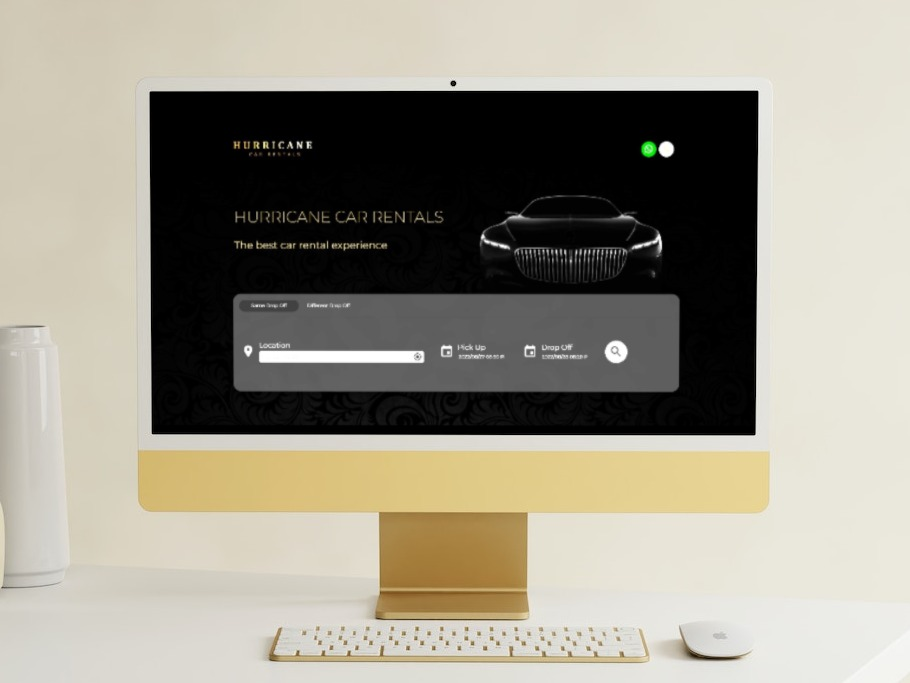
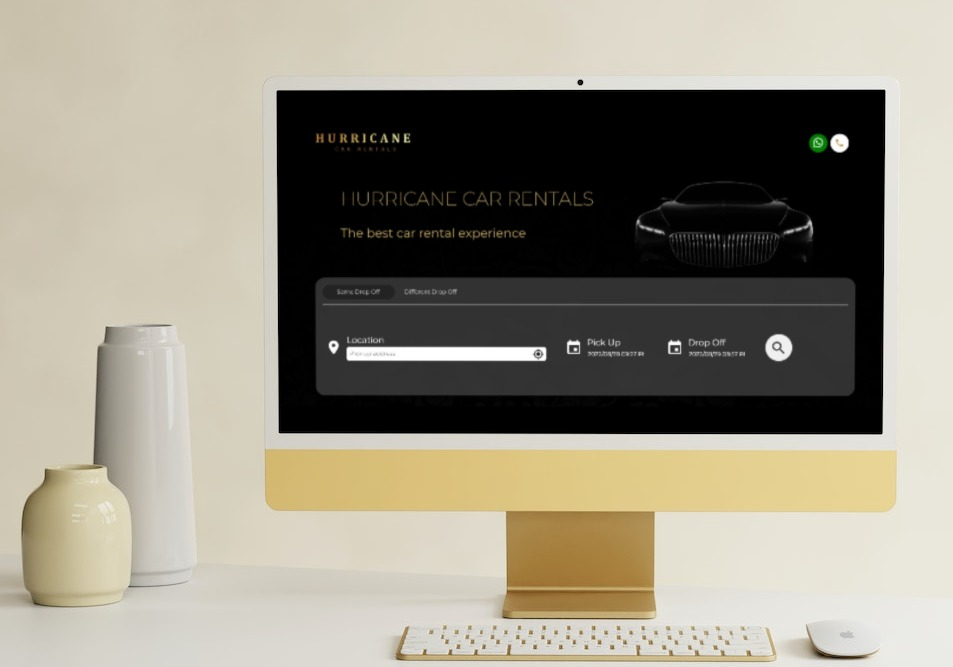
portfolio2

diff --git a/portfolio-details1.html b/portfolio-details1.html
@@ -1,0 +1,183 @@
+<!DOCTYPE html>
+<html lang="en">
+
+<head>
+  <meta charset="utf-8">
+  <meta content="width=device-width, initial-scale=1.0" name="viewport">
+
+  <title>Portfolio Details</title>
+  <meta content="" name="description">
+  <meta content="" name="keywords">
+
+  <!-- Favicons -->
+  <link href="assets/img/fav.jpg" rel="icon">
+  <link href="assets/img/apple-touch-icon.png" rel="apple-touch-icon">
+
+  <!-- Google Fonts -->
+  <link href="https://fonts.googleapis.com/css?family=Open+Sans:300,300i,400,400i,600,600i,700,700i|Raleway:300,300i,400,400i,500,500i,600,600i,700,700i|Poppins:300,300i,400,400i,500,500i,600,600i,700,700i" rel="stylesheet">
+
+  <!-- Vendor CSS Files -->
+  <link href="assets/vendor/aos/aos.css" rel="stylesheet">
+  <link href="assets/vendor/bootstrap/css/bootstrap.min.css" rel="stylesheet">
+  <link href="assets/vendor/bootstrap-icons/bootstrap-icons.css" rel="stylesheet">
+  <link href="assets/vendor/boxicons/css/boxicons.min.css" rel="stylesheet">
+  <link href="assets/vendor/glightbox/css/glightbox.min.css" rel="stylesheet">
+  <link href="assets/vendor/swiper/swiper-bundle.min.css" rel="stylesheet">
+
+  <!-- Template Main CSS File -->
+  <link href="assets/css/style.css" rel="stylesheet">
+
+  <!-- =======================================================
+  * Template Name: iPortfolio - v3.3.0
+  * Template URL: https://bootstrapmade.com/iportfolio-bootstrap-portfolio-websites-template/
+  * Author: BootstrapMade.com
+  * License: https://bootstrapmade.com/license/
+  ======================================================== -->
+</head>
+
+<body>
+
+  <!-- ======= Mobile nav toggle button ======= -->
+  <i class="bi bi-list mobile-nav-toggle d-xl-none"></i>
+
+  <!-- ======= Header ======= -->
+  <header id="header">
+    <div class="d-flex flex-column">
+      <div class="profile">
+        <img
+          src="assets/img/profile.png"
+          alt=""
+          class="img-fluid rounded-circle"
+        />
+        <h1 class="text-light"><a href="index.html">Zahraa Saman</a></h1>
+        <!-- <div class="social-links mt-3 text-center">
+        <a href="#" class="twitter"><i class="bx bxl-twitter"></i></a>
+        <a href="#" class="facebook"><i class="bx bxl-facebook"></i></a>
+        <a href="#" class="instagram"><i class="bx bxl-instagram"></i></a>
+        <a href="#" class="google-plus"><i class="bx bxl-skype"></i></a>
+        <a href="#" class="linkedin"><i class="bx bxl-linkedin"></i></a>
+      </div> -->
+      </div>
+
+      <nav id="navbar" class="nav-menu navbar">
+        <ul>
+          <li>
+            <a href="#hero" class="nav-link scrollto active"
+              ><i class="bx bx-home"></i> <span>Home</span></a
+            >
+          </li>
+          <li>
+            <a href="#about" class="nav-link scrollto"
+              ><i class="bx bx-user"></i> <span>About</span></a
+            >
+          </li>
+          <li>
+            <a href="#resume" class="nav-link scrollto"
+              ><i class="bx bx-file-blank"></i> <span>Resume</span></a
+            >
+          </li>
+          <!-- <li>
+            <a href="#portfolio" class="nav-link scrollto"
+              ><i class="bx bx-book-content"></i> <span>Portfolio</span></a
+            >
+          </li> -->
+        
+          <li>
+            <a href="#contact" class="nav-link scrollto"
+              ><i class="bx bx-envelope"></i> <span>Contact</span></a
+            >
+          </li>
+        </ul>
+      </nav>
+      <!-- .nav-menu -->
+    </div>
+  </header><!-- End Header -->
+
+  <main id="main">
+
+    <!-- ======= Breadcrumbs ======= -->
+    <section id="breadcrumbs" class="breadcrumbs">
+      <div class="container">
+
+        <div class="d-flex justify-content-between align-items-center">
+          <h2>Portfoio Details</h2>
+          <ol>
+            <li><a href="index.html">Home</a></li>
+            <li>Portfoio Details</li>
+          </ol>
+        </div>
+
+      </div>
+    </section><!-- End Breadcrumbs -->
+
+    <!-- ======= Portfolio Details Section ======= -->
+    <section id="portfolio-details" class="portfolio-details">
+      <div class="container">
+
+        <div class="row gy-4">
+
+          <div class="col-lg-8">
+            <div class="portfolio-details-slider swiper-container">
+              <div class="swiper-wrapper align-items-center">
+
+                <div class="swiper-slide">
+                  <img src="assets/img/portfolio/portfolio-details-6.jpg" alt="">
+                </div>
+
+                <div class="swiper-slide">
+                  <img src="assets/img/portfolio/portfolio-2.jpg" alt="">
+                </div>
+                                                                                                              
+                <div class="swiper-slide">
+                  <img src="assets/img/portfolio/portfolio-details-5.jpg" alt="">
+                </div>
+
+              </div>
+              <div class="swiper-pagination"></div>
+            </div>
+          </div>
+
+          <div class="col-lg-4">
+            <div class="portfolio-info">
+              <h3>Project information</h3>
+              <ul>
+                <li><strong>Project URL</strong>: <a href="https://www.hurricanecarrentals.co.za" target="_blank">www.hurricanecarrentals.co.za</a></li>
+                <li><strong>Details</strong>: Web system for car rental company</li>
+              </ul>
+            </div>
+           
+          </div>
+
+        </div>
+
+      </div>
+    </section><!-- End Portfolio Details Section -->
+
+  </main><!-- End #main -->
+
+  <!-- ======= Footer ======= -->
+  <footer id="footer">
+    <div class="container">
+     
+    </div>
+  </footer><!-- End  Footer -->
+
+  <a href="#" class="back-to-top d-flex align-items-center justify-content-center"><i class="bi bi-arrow-up-short"></i></a>
+
+  <!-- Vendor JS Files -->
+  <script src="assets/vendor/aos/aos.js"></script>
+  <script src="assets/vendor/bootstrap/js/bootstrap.bundle.min.js"></script>
+  <script src="assets/vendor/glightbox/js/glightbox.min.js"></script>
+  <script src="assets/vendor/isotope-layout/isotope.pkgd.min.js"></script>
+  <script src="assets/vendor/php-email-form/validate.js"></script>
+  <script src="assets/vendor/purecounter/purecounter.js"></script>
+  <script src="assets/vendor/swiper/swiper-bundle.min.js"></script>
+  <script src="assets/vendor/typed.js/typed.min.js"></script>
+  <script src="assets/vendor/waypoints/noframework.waypoints.js"></script>
+
+  <!-- Template Main JS File -->
+  <script src="assets/js/main.js"></script>
+
+</body>
+
+</html>

diff --git a/index.html b/index.html
@@ -305,16 +305,16 @@
             <div class="col-lg-4 col-md-6 portfolio-item filter-app">
               <div class="portfolio-wrap">
                 <img
-                  src="assets/img/portfolio/portfolio-1.jpg"
+                  src="assets/img/portfolio/portfolio-details-1.jpg"
                   class="img-fluid"
                   alt=""
                 />
                 <div class="portfolio-links">
                   <a
-                    href="assets/img/portfolio/portfolio-1.jpg"
+                    href="assets/img/portfolio/portfolio-details-1.jpg"
                     data-gallery="portfolioGallery"
                     class="portfolio-lightbox"
-                    title="App 1"
+                    title="Sology website"
                     ><i class="bx bx-plus"></i
                   ></a>
                   <a href="portfolio-details.html" title="More Details"
@@ -327,19 +327,19 @@
             <div class="col-lg-4 col-md-6 portfolio-item filter-web">
               <div class="portfolio-wrap">
                 <img
-                  src="assets/img/portfolio/portfolio-2.jpg"
+                  src="assets/img/portfolio/portfolio-details-3.jpg"
                   class="img-fluid"
                   alt=""
                 />
                 <div class="portfolio-links">
                   <a
-                    href="assets/img/portfolio/portfolio-2.jpg"
+                    href="assets/img/portfolio/portfolio-details-3.jpg"
                     data-gallery="portfolioGallery"
                     class="portfolio-lightbox"
-                    title="Web 3"
+                    title="Hurricane car rentals website"
                     ><i class="bx bx-plus"></i
                   ></a>
-                  <a href="portfolio-details.html" title="More Details"
+                  <a href="portfolio-details1.html" title="More Details"
                     ><i class="bx bx-link"></i
                   ></a>
                 </div>

diff --git a/portfolio-details.html b/portfolio-details.html
@@ -129,7 +129,7 @@
                 </div>
 
                 <div class="swiper-slide">
-                  <img src="assets/img/portfolio/portfolio-details-3.jpg" alt="">
+                  <img src="assets/img/portfolio/portfolio-details-4.jpg" alt="">
                 </div>
 
               </div>
@@ -141,18 +141,12 @@
             <div class="portfolio-info">
               <h3>Project information</h3>
               <ul>
-                <li><strong>Category</strong>: Web design</li>
-                <li><strong>Client</strong>: ASU Company</li>
-                <li><strong>Project date</strong>: 01 March, 2020</li>
-                <li><strong>Project URL</strong>: <a href="#">www.example.com</a></li>
+            
+                <li><strong>Project URL</strong>: <a href="https://www.sology.net" target="_blank">www.sology.net</a></li>
+                <li><strong>Details</strong>: Landing page for IT company</li>
               </ul>
             </div>
-            <div class="portfolio-description">
-              <h2>This is an example of portfolio detail</h2>
-              <p>
-                Autem ipsum nam porro corporis rerum. Quis eos dolorem eos itaque inventore commodi labore quia quia. Exercitationem repudiandae officiis neque suscipit non officia eaque itaque enim. Voluptatem officia accusantium nesciunt est omnis tempora consectetur dignissimos. Sequi nulla at esse enim cum deserunt eius.
-              </p>
-            </div>
+           
           </div>
 
         </div>
